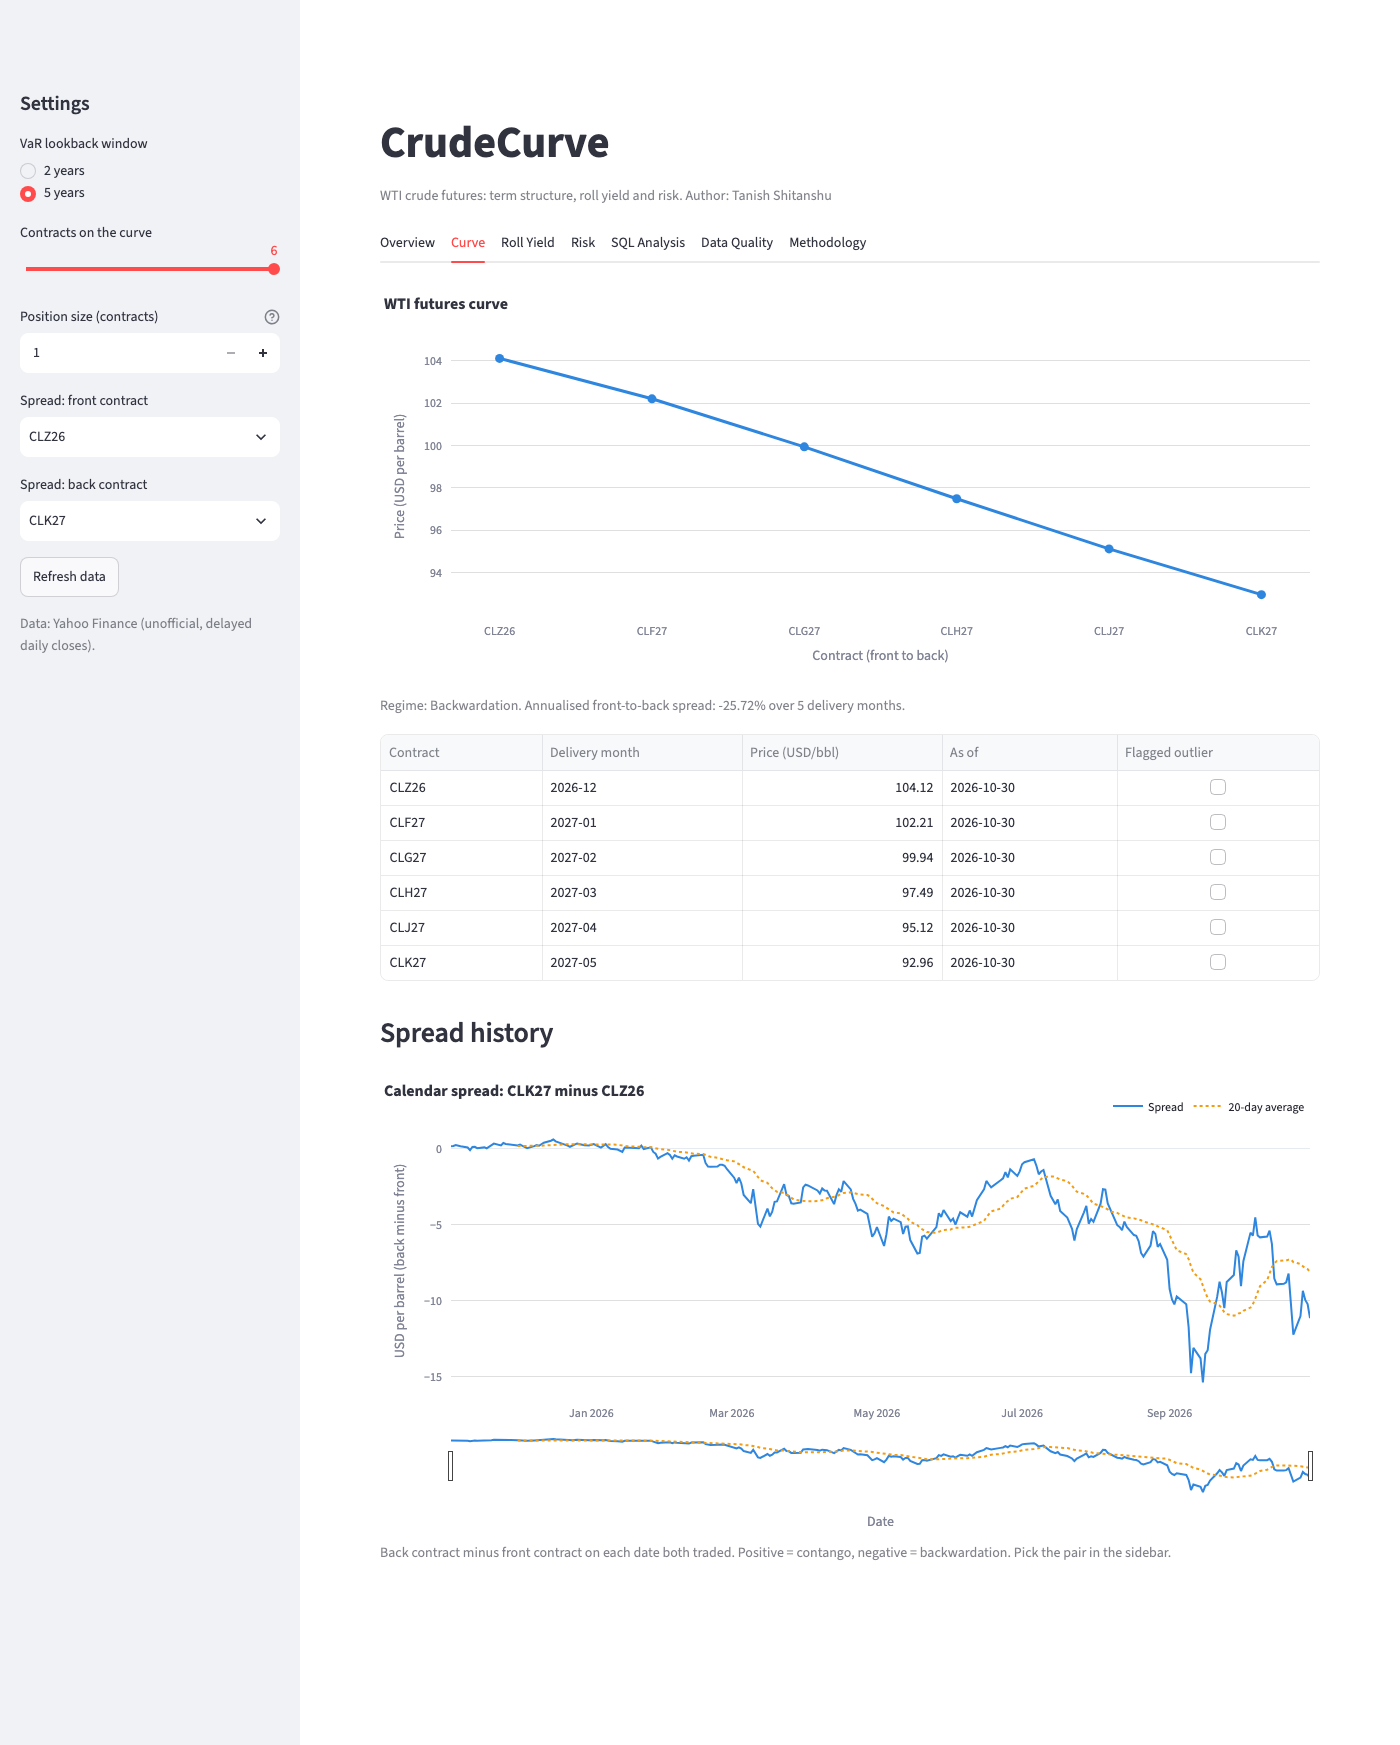
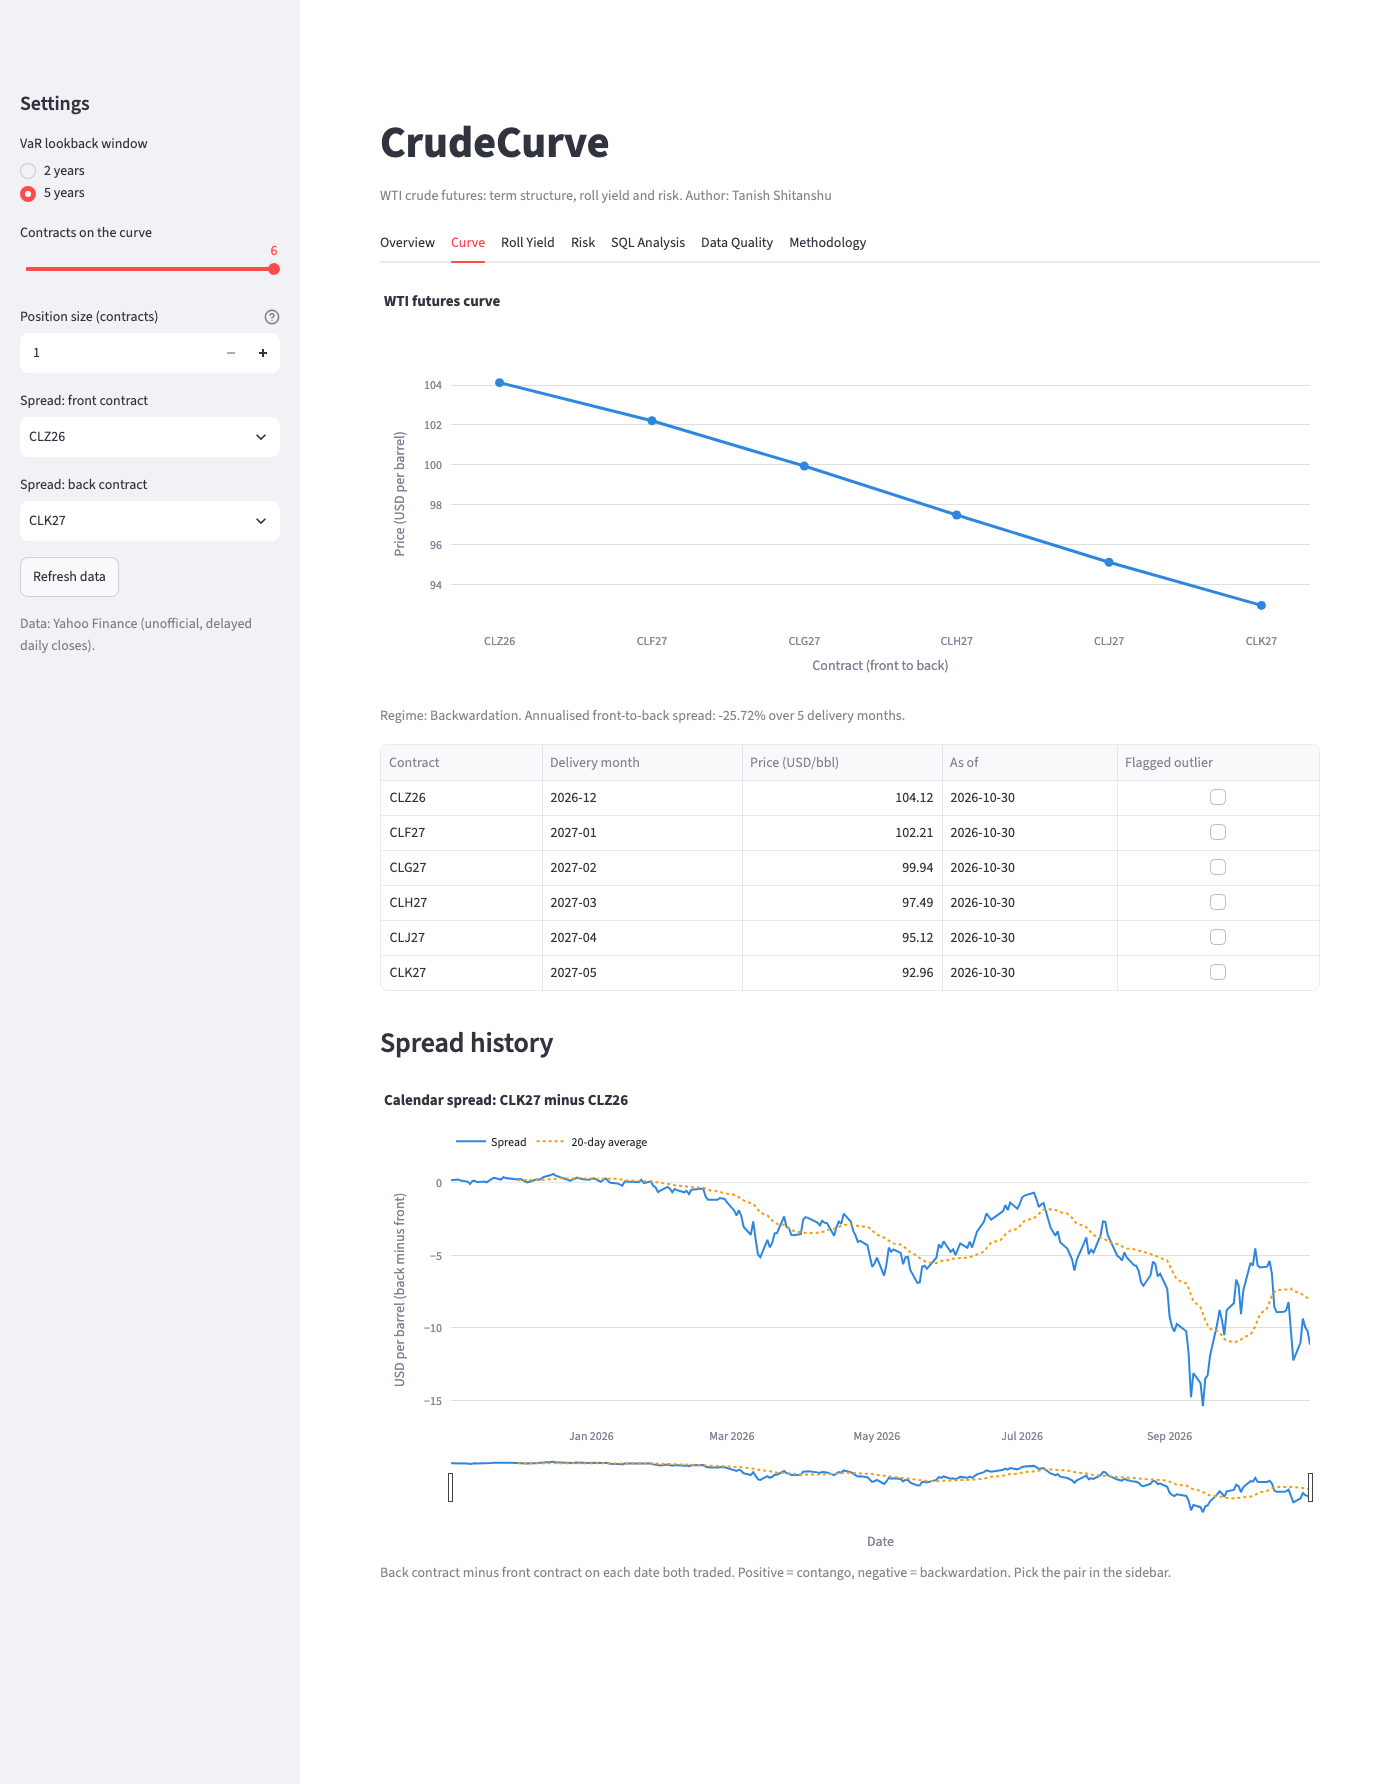
Rewrite README and capture screenshots of all seven tabs

diff --git a/README.md b/README.md
@@ -1,44 +1,44 @@
 # CrudeCurve
 
-**WTI crude oil futures: term structure, roll yield and risk, in one dashboard.**
+**An interactive dashboard for WTI crude oil futures: classifies the curve as contango, backwardation or kinked, estimates what rolling a position costs, and measures one-day risk.**
 
 [![CI](https://github.com/Tanish-Shitanshu/crudecurve/actions/workflows/ci.yml/badge.svg)](https://github.com/Tanish-Shitanshu/crudecurve/actions/workflows/ci.yml)
 ![Python](https://img.shields.io/badge/python-3.13-blue)
 ![License: MIT](https://img.shields.io/badge/license-MIT-green)
 ![Built with Streamlit](https://img.shields.io/badge/built%20with-Streamlit-FF4B4B?logo=streamlit&logoColor=white)
 
-Author: **Tanish Shitanshu**
+![CrudeCurve Overview tab](docs/screenshots/overview.png)
 
-CrudeCurve pulls real WTI futures prices from Yahoo Finance, checks them against explicit
-business rules, stores them in a local SQLite database, and turns them into an
-analysis-ready picture of the market: is the curve in **contango** or **backwardation**, what
-does rolling a long position cost or earn, and how much could a position lose in a day
-(**Value at Risk**). Every number on screen is computed from real data.
-
-![Overview tab: KPI cards and market summary](docs/screenshots/overview.png)
+Real prices from Yahoo Finance, checked against explicit business rules, stored in SQLite, and turned into an analysis-ready view of the market. No API key needed. Every number on screen is computed from real data.
 
 ## What it does
 
 | Area | What you get |
 |---|---|
-| **Term structure** | The curve of the first six live WTI contracts, classified as contango, backwardation or kinked, with the annualised front-to-back carry |
-| **Roll gain / cost** | The yearly gain or cost of rolling a long position if the curve stays unchanged (positive = gain), plus a 2-year roll-window *proxy* from month-end price moves |
-| **Risk** | Historical-simulation 1-day VaR at 95% and 99% (selected lookback next to the last 12 months, with observation counts), 21-day volatility, max drawdown, worst day |
-| **Data validation** | Seven business rules (expiry, price validity, freshness, duplicates, ordering, minimum contracts, outliers); every outcome is logged |
-| **SQL analysis** | Preset read-only SQL: `LAG()` spread changes, a 20-day `AVG() OVER` moving average, top spread moves, data-quality problems by rule, with the SQL text shown |
-| **Reporting** | Excel report (Summary, Curve, History, Risk, Data Quality sheets), a CSV of the curve, and a rule-based written market summary |
-| **Resilience** | If Yahoo is unreachable the app shows the last saved snapshot with a clear banner, and never presents old data as live |
+| **Term structure** | The first six live WTI contracts, labelled contango, backwardation or kinked, with the annualised front-to-back carry |
+| **Roll gain / cost** | Yearly gain or cost of rolling a long position if the curve stays unchanged, plus a 2-year roll-window *proxy* |
+| **Risk** | Historical-simulation 1-day VaR (95% and 99%, with observation counts), 21-day volatility, max drawdown, worst day |
+| **Data validation** | 7 business rules on every refresh (expiry, price validity, freshness, duplicates, ordering, minimum contracts, outliers), all logged |
+| **SQL analysis** | 4 read-only queries on the stored data (`LAG()` spread changes, 20-day `AVG() OVER`, top spread moves, quality problems by rule), SQL text shown |
+| **Reporting** | Excel report (5 sheets), curve CSV, and a rule-based written market summary |
+| **Resilience** | If Yahoo is unreachable, shows the last saved snapshot with a clear banner, never old data as live |
 
-<details>
-<summary>More screenshots (Curve, Risk, SQL Analysis)</summary>
+## Screenshots
 
-![Curve tab: futures curve and spread history](docs/screenshots/curve.png)
+The Overview tab is above. The other six tabs (click an image for full size):
 
-![Risk tab: VaR, volatility, drawdown](docs/screenshots/risk.png)
-
-![SQL Analysis tab: query text and result](docs/screenshots/sql.png)
-
-</details>
+<table>
+  <tr>
+    <td align="center"><b>Curve</b><br><a href="docs/screenshots/curve.png"><img src="docs/screenshots/curve.png" width="290" alt="Curve tab"></a></td>
+    <td align="center"><b>Roll Yield</b><br><a href="docs/screenshots/roll-yield.png"><img src="docs/screenshots/roll-yield.png" width="290" alt="Roll Yield tab"></a></td>
+    <td align="center"><b>Risk</b><br><a href="docs/screenshots/risk.png"><img src="docs/screenshots/risk.png" width="290" alt="Risk tab"></a></td>
+  </tr>
+  <tr>
+    <td align="center"><b>SQL Analysis</b><br><a href="docs/screenshots/sql-analysis.png"><img src="docs/screenshots/sql-analysis.png" width="290" alt="SQL Analysis tab"></a></td>
+    <td align="center"><b>Data Quality</b><br><a href="docs/screenshots/data-quality.png"><img src="docs/screenshots/data-quality.png" width="290" alt="Data Quality tab"></a></td>
+    <td align="center"><b>Methodology</b><br><a href="docs/screenshots/methodology.png"><img src="docs/screenshots/methodology.png" width="290" alt="Methodology tab"></a></td>
+  </tr>
+</table>
 
 ## Quick start
 
@@ -49,114 +49,91 @@ pip install -r requirements.txt
 streamlit run app.py
 ```
 
-No API key, account or `.env` file is needed. The first run downloads about a year of daily
-closes for each live contract into `data/crudecurve.db`, so it takes a little longer.
+The first run downloads about a year of daily closes per live contract into `data/crudecurve.db` (git-ignored), so it takes a little longer.
 
-## Tests and linting
+**Deploying to Streamlit Community Cloud:** no secrets are needed. Create an app from this repository (branch `master`, main file `app.py`) and choose Python 3.13 under *Advanced settings*. The cloud disk is ephemeral, so the database is rebuilt after a restart.
+
+## Tests
 
 ```bash
 pip install -r requirements-dev.txt
-pytest -q        # fully offline: all network calls are mocked, the database is in memory or a temp file
+pytest -q        # 152 tests, fully offline (network mocked, database in memory or a temp file)
 ruff check .
 ```
 
-The tests cover each validation rule, storage (in-memory SQLite), the risk metrics against
-hand-checked synthetic series, every SQL query on a small fixture, the Excel workbook contents,
-and the whole Streamlit app (with Streamlit's `AppTest`), including the saved-snapshot fallback.
-GitHub Actions runs `ruff` and `pytest` on every push and pull request.
+The tests cover each validation rule, storage, the risk metrics against hand-checked synthetic series, every SQL query on a small fixture, the Excel workbook contents, the charts, and the whole Streamlit app (with Streamlit's `AppTest`) including the saved-snapshot fallback. GitHub Actions runs `ruff` and `pytest` on every push and pull request.
 
-## Architecture and data flow
+## Architecture
 
 ```mermaid
 flowchart TD
-    Y[Yahoo Finance via yfinance] --> F[data_fetcher.py]
-    F --> P[pipeline.py]
-    P --> V[validation.py - business rules]
-    V --> DB[(SQLite: snapshots, prices, quality log)]
-    DB -. saved snapshot if live data fails .-> P
+    Y[Yahoo Finance via yfinance] --> F[data_fetcher]
+    subgraph pkg [crudecurve package]
+        F --> P[pipeline]
+        P --> V[validation]
+        V --> DB[(SQLite: snapshots, prices, quality log)]
+        DB -. saved snapshot if live data fails .-> P
 
-    F -->|CL=F history| R[risk.py]
-    E[expiry.py - roll days] --> R
-    TS[term_structure.py] --> M[metrics.py]
-    RY[roll_yield.py] --> M
-    R --> M
-    P --> M
-    DB --> Q[sql_queries.py]
+        F -->|CL=F history| R[risk]
+        E[expiry - roll days] --> R
+        TS[term_structure] --> M[metrics]
+        RY[roll_yield] --> M
+        R --> M
+        P --> M
+        DB --> Q[sql_queries]
 
-    M --> MS[market_summary.py]
-    M --> X[report.py - Excel and CSV]
-    M --> A[app.py + views.py + charts.py]
-    MS --> A
-    MS --> X
-    Q --> A
+        M --> MS[market_summary]
+        M --> X[report - Excel and CSV]
+        M --> VW[views + charts]
+        MS --> VW
+        MS --> X
+        Q --> VW
+    end
+    VW --> A[app.py - Streamlit entry point]
 ```
 
-**Project structure**
-
 ```
-crudecurve/                   # repository root
-├── app.py                    # Streamlit entry point: sidebar, data loading, tabs
-├── crudecurve/               # the package
-│   ├── config.py             # every constant and threshold in one place
-│   ├── data_fetcher.py       # the only module that touches the network (yfinance)
-│   ├── pipeline.py           # fetch -> validate -> save, with saved-snapshot fallback
-│   ├── validation.py         # business rules, each returns pass / fail / flag / skipped
-│   ├── storage.py            # SQLite tables and idempotent upserts
-│   ├── expiry.py             # NYMEX expiry rule and roll days
-│   ├── term_structure.py     # curve classification and annualised carry
-│   ├── roll_yield.py         # 2-year roll-window proxy
-│   ├── risk.py               # returns, volatility, VaR, drawdown, roll gain
-│   ├── metrics.py            # one dictionary of headline metrics for screen, Excel and text
-│   ├── sql_queries.py        # fixed, parameterised, read-only SQL
-│   ├── report.py             # Excel workbook and CSV
-│   ├── market_summary.py     # deterministic written summary (no model)
-│   ├── formatting.py         # number and currency formatting
-│   ├── charts.py             # all Plotly figures, one shared look
-│   └── views.py              # one render function per tab
-├── docs/METHODOLOGY.md       # every formula, sign convention and rule
-├── tests/                    # offline tests
-└── .github/workflows/ci.yml
+app.py                      # Streamlit entry point: sidebar, data loading, tabs
+crudecurve/
+  config.py                 # every constant and threshold in one place
+  data_fetcher.py           # the only module that touches the network
+  pipeline.py               # fetch -> validate -> save, with saved-snapshot fallback
+  validation.py             # business rules: pass / fail / flag / skipped
+  storage.py                # SQLite tables and idempotent upserts
+  expiry.py                 # NYMEX expiry rule and roll days
+  term_structure.py         # curve classification and annualised carry
+  roll_yield.py             # 2-year roll-window proxy
+  risk.py                   # returns, volatility, VaR, drawdown, roll gain
+  metrics.py                # one dictionary of headline metrics for screen, Excel and text
+  sql_queries.py            # fixed, parameterised, read-only SQL
+  report.py                 # Excel workbook and CSV
+  market_summary.py         # deterministic written summary (no model)
+  formatting.py             # number and currency formatting
+  charts.py                 # all Plotly figures
+  views.py                  # one render function per tab
+docs/METHODOLOGY.md         # every formula, sign convention and rule
+tests/                      # offline tests
 ```
 
 ## Methodology in brief
 
 - **Carry** = (back − front) / front × 12 / months between × 100. Positive = contango.
 - **Roll gain per year** (long position) = −carry% × notional. Positive = gain, negative = cost.
-- **VaR** (historical simulation) = the (1 − confidence) percentile of past daily returns,
-  applied to the position value. The number of observations is always shown beside it.
-- **Roll days** (the day `CL=F` switches contract) are found with the NYMEX expiry rule and
-  excluded from returns, because the jump is a contract switch, not a market move.
+- **VaR** (historical simulation) = the (1 − confidence) percentile of past daily returns applied to the position value. The observation count is always shown beside it, and the last 12 months are shown next to the selected window.
+- **Roll days** (when `CL=F` switches contract) are found with the NYMEX expiry rule and excluded from returns, because that jump is a contract switch, not a market move.
 
-Full formulas, sign conventions and the validation rules are in
-[docs/METHODOLOGY.md](docs/METHODOLOGY.md), which the dashboard also shows in its
-Methodology tab.
+All formulas, sign conventions and the validation rules are in [docs/METHODOLOGY.md](docs/METHODOLOGY.md); the dashboard's Methodology tab shows the same text.
 
 ## Limitations
 
-- **Yahoo Finance data is unofficial and delayed.** Prices are daily closes, not exchange
-  settlements, and symbols can change without notice.
-- **The roll-window yield is a proxy**, not a true roll yield. It sums month-end price moves of
-  the continuous series because free data has no history of expired contracts. The
-  curve-based roll gain is the headline roll metric.
-- **VaR is historical simulation on daily closes.** It assumes the past is representative of
-  the future and cannot see moves within a day. The 99% figure rests on few observations,
-  especially over 12 months.
-- **Roll-day exclusion has a trade-off.** About 5% of days are dropped; a few of them may hold
-  real moves, so VaR may be slightly understated. Large moves that are not roll days are kept.
-- **Volatility cluster in the data.** March to April 2026 shows a cluster of very large daily
-  moves in the front month, in the same direction as deferred contracts but much larger,
-  consistent with a front-month squeeze in strong backwardation. The cause was not verified.
-  It is why the last-12-months VaR is shown next to the longer window.
+- **Yahoo Finance data is unofficial and delayed.** Prices are daily closes, not exchange settlements, and symbols can change without notice.
+- **The roll-window yield is a proxy**, not a true roll yield: it sums month-end price moves of the continuous series because free data has no history of expired contracts. The curve-based roll gain is the headline roll metric.
+- **VaR is historical simulation on daily closes.** It assumes the past is representative of the future and cannot see moves within a day. The 99% figure rests on few observations, especially over 12 months.
+- **Roll-day exclusion has a trade-off.** About 5% of days are dropped, and a few may hold real moves, so VaR may be slightly understated. Large moves that are not roll days are kept.
+- **Volatility cluster in the data.** March to April 2026 shows very large front-month moves, in the same direction as deferred contracts but much larger, consistent with a front-month squeeze in strong backwardation. The cause was not verified. It is why the last-12-months VaR is shown next to the longer window.
+- **Offline fallback covers the curve only.** The saved snapshot restores the curve, but the `CL=F` history is not stored, so risk figures are unavailable while Yahoo is down.
 - Business-day calendars are approximate (US federal holidays, not the exchange calendar).
 - **Not investment advice.**
-
-## Deploying to Streamlit Community Cloud
-
-No secrets are needed. In [share.streamlit.io](https://share.streamlit.io): create an app from
-this GitHub repository, branch `master`, main file `app.py`, and choose Python 3.13 under
-*Advanced settings*. The cloud disk is ephemeral, so the SQLite file is rebuilt after a restart
-(the first load downloads the contract history again, and the saved-snapshot fallback only
-helps while the app stays running).
 
 ## License
 
